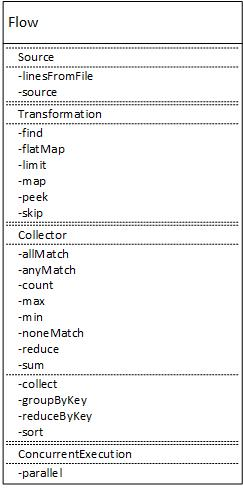
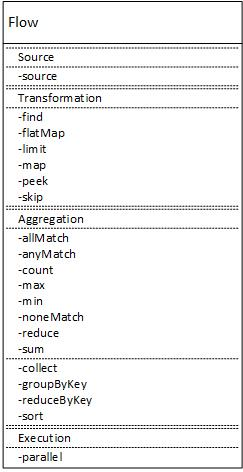
Révision

Changed region(s): [[0.0, 0.0, 1.0, 1.0], [0.0288, 0.0297, 0.1728, 0.0593]]

diff --git a/MemoireRedaction/introduction.tex b/MemoireRedaction/introduction.tex
@@ -7,7 +7,8 @@ Le traitement de flux de donn\'ees devient de plus en plus important en raison d
 Une application qui traite un flux de données peut \^etre consid\'er\'ee comme un pipeline \`a travers lequel les donn\'ees du flux sont produites, trait\'ees et consomm\'ees en continu. Le parall\'elisme dans le traitement d'un tel flux consiste \`a traiter des \'el\'ements distinct du flux de fa\c{c}on concurrente --- \emph{parall\'elisme de flux} (\emph{flow parallelism} ou \emph{stream parallelism}) --- et \`a r\'epliquer un m\^eme op\'erateur sur des sous-groupes d'\'el\'ements du flux --- \emph{parall\'elisme de donn\'ees} (\emph{data parallelism}). La transformation, le tri ou la r\'eduction par un op\'erateur binaire sont des exemples d'op\'erations pour lesquelles du parall\'elisme de donn\'ees peut \^etre exploit\'e. 
 
 
-Les applications parall\`eles sont g\'en\'eralement cod\'ees \`a l'aide de biblioth\`eques comme \TT{FastFlow}~\citep{AldinucciEtAl14} ou \TT{TBB}~\citep{Reinders07}. Bien que les mod\`eles offerts par ces outils aient pour but de simplifier le d\'eveloppement d'applications parall\`eles, ils n'offrent pas une abstraction de haut niveau et n\'ecessitent une r\'e\'ecriture de l'application sans possibilit\'e de r\'eutiliser le code s\'equentiel disponible.
+Les applications parall\`eles sont g\'en\'eralement cod\'ees \`a l'aide de biblioth\`eques comme \TT{FastFlow}~\citep{AldinucciEtAl14} ou \TT{TBB}~\citep{Reinders07}. Ces outils permettent aux utilisateurs d'implémenter des solutions robustes et portables avec une abstraction de haut niveau qui masque la complexit\'e des m\'ecanismes de concurrence, tels que la gestion des threads et les synchronisations. Bien que les mod\`eles offerts par ces outils aient pour but de simplifier le d\'eveloppement d'applications parall\`eles, ils n'offrent pas une interface standard. Notre API veut introduire un mod\`ele simple, o\`u le programmeur cr\'ee un pipeline de transformations par interm\`ede d'une interface qui expose clairement les op\'erations de transformation, et o\`u chaque transformation est relativement simple --- donc, application du
+principe <<diviser-pour-r\'egner>> mais de fa\c{c}on non r\'ecursive.
 
 \GT{Pour la derni\`ere phrase du paragraphe pr\'ec\'edent, je ne crois
 pas que PpFF permette cela non plus.  Je crois que tu dois plut\^ot
@@ -16,16 +17,20 @@ programmeur cr\'ee un pipeline de transformations, et o\`u chaque
 transformation est relativement simple --- donc, application du
 principe <<diviser-pour-r\'egner>> mais de fa\c{c}on non r\'ecursive.}
 
+\IC{J'ai reformul\'e le paragraphe. J'ai ajout\'e plus d'explications pour les outils \TT{TBB} et \TT{FastFlow}, et j'ai copi\'e la derni`ere phrase de vos remarques. Peut-\^etre j'aurais d\^u la d\'eévelopper, mais je l'ai trouv\'ee tr\`es bien formul\'ee.}
+
 R\'e\'ecrire une application est g\'en\'eralement co\^uteux en termes de temps de d\'eveloppement. Les approches visant \`a pallier ce d\'efaut sont souvent des outils de programmations parall\`eles d\'evelopp\'es pour introduire le parall\'elisme dans du code s\'equentiel existant. Des exemples sont \TT{OpenMP}~\citep{ChandraEtAl01} et \TT{OpenACC}~\citep{farber2016parallel} qui utilisent une approche bas\'ee sur l'ajout de directives --- des commentaires sp\'eciaux trait\'es par le compilateur---, et \TT{Cilk}~\citep{leiserson1998programming} qui est une extension simple du langage~\TT{C}. Malheureusement, ces outils ne sont pas bien adapt\'es au traitement de flux de donn\'ees.
 
+Des outils qui supportent le traitement de flux de donn\'ees sont disponibles dans d'autres langages de programmation que \TT{C}/\TT{C++}. Les plus connus sont \TT{Spark}~\citep{frampton2015mastering} (Java, Scala et autres langages), les \TT{Stream}s de \TT{Java 8}~\citep{warburton2014java} et \TT{Flink}~\citep{flinkReferenceEnLigne} (Java et Scala). Notre \TT{API} est tr\`es semblable \`a celle des Streams de Java 8, mais en C++, et parfois / souvent plus simple \`a sp\'ecifier gr\^ace aux templates.
 
-Des outils qui supportent le traitement de flux de donn\'ees sont disponibles dans d'autres langages de programmation que \TT{C}/\TT{C++}. Les plus connus sont \TT{Spark}~\citep{frampton2015mastering} (Java, Scala et autres langages), les \TT{Stream}s de \TT{Java 8}~\citep{warburton2014java} et \TT{Flink}~\citep{flinkReferenceEnLigne} (Java et Scala). Un avantage principal de notre \TT{API} par rapport aux outils mentionn\'es est que le code (\'ecrit \`a l'aide de templates \TT{C++}) est compil\'e directement en code machine optimis\'ee m\^eme avant d'\^etre ex\'ecut\'e. 
 
 \GT{Ci-haut, derni\`ere phrase: pas certain que ce soit le bon
 avantage \`a mentionner.  Je crois qu'il faut \^etre clair \`a ce
 point que l'API est tr\`es semblable (!) \`a celle des Streams de Java
 8, mais en C++, et parfois/souvent plus simple \`a sp\'ecifier gr\^ace
 aux templates.}
+
+\IC{Encore une fois j'ai copi\'e votre suggestion. Tr\`es bon point.}
 
 \section*{Objectifs}
 
@@ -35,7 +40,11 @@ plus, tu utilises le terme <<mod\`ele algorithmique parall\`ele>> ou
 cela r\'ef\`ere. \'A quel terme anglais ce terme correspond-il? Quelle
 est la r\'ef\'erence?}
 
-Dans le contexte du langage de programmation \TT{C++}, il existe plusieurs biblioth\`eques qui offrent des mod\`eles algorithmiques parall\`eles pour le traitement de donn\'ees. Cependant, tous les mod\`eles entrent dans la cat\'egorie des mod\`eles parall\`eles de donn\'ees, comme la transformation et la r\'eduction. Ce m\'emoire a comme objectif d'enrichir cette collection avec de nouveaux mod\`eles parall\`eles avec une interface simple \`a utiliser. Ceci, associ\'e \`a de nouvelles fonctionnalit\'es telles que les expressions lambda~\citep{josuttis2012c++}, aide un programmeur \`a \'ecrire des op\'erations complexes pour un flux de donn\'ees. Cette nouvelle \TT{API} en \TT{C++}, appel\'ee \TT{PpFF},  est mise en \oe{}uvre avec la biblioth\`eque \TT{FastFlow}.
+\IC{Le terme anglais pour <<mod\`ele algorithmique parall\`ele>> correspond \`a <<parallel algorithms>>. Je me suis inspir\'e de l'article suivant : Adapting parallel algorithms to the W-Stream model, with applications to graph problems. (https://www.sciencedirect.com/science/article/pii/S0304397510004652) }
+
+\IC{J'ai reformul\'e le paragraphe.}
+
+Dans le contexte du langage de programmation \TT{C++}, il existe plusieurs biblioth\`eques qui offrent des algorithmes de traitement de flux de donn\'ees. Cependant, la plupart des algorithmes se réduisent \`a des op\'erations de transformation et et de r\'eduction. Ce m\'emoire a comme objectif d'enrichir cette collection avec de nouvelles op\'erations dans une interface simple \`a utiliser. Ceci, associ\'e \`a de nouvelles fonctionnalit\'es telles que les expressions lambda~\citep{josuttis2012c++}, aide un programmeur \`a \'ecrire des op\'erations complexes pour un flux de donn\'ees. Cette nouvelle \TT{API} en \TT{C++}, appel\'ee \TT{PpFF},  est mise en \oe{}uvre avec la biblioth\`eque \TT{FastFlow}.
 
 Les performances de \TT{PpFf} sont \'evalu\'ees en les comparant \`a celles des \TT{Stream}s de \TT{Java 8}. Comme nous le verrons, les r\'esultats indiquent que \TT{PpFf} peut en effet traiter de donn\'ees \`a haut d\'ebit. En plus de mesurer les performances de notre API, nous illustrerons \'egalement son expressivit\'e en impl\'ementant certains cas d'utilisation typiques rencontr\'es dans les applications de traitement de flux de donn\'ees.
 
@@ -49,6 +58,8 @@ comme suit.
 \GT{Il ne faut pas mettre de num\'eros ou noms explicites, sinon ils
 ne seront plus corrects si tu les changes dans le corps du texte. De
 plus, la conclusion n'est pas un chapitre num\'erot\'e.}
+
+\IC{Bonne remarque!!!}
 
 Le chapitre~\ref{outils_connus.chap} \nameref{outils_connus.chap} pr\'esente les outils existants portant sur le traitement des flux de donn\'ees.  Tout d'abord, il introduit les architectures utilis\'ees par divers outils, puis il pr\'esente les mod\`eles de programmations permettant d'exprimer les traitements de donn\'ees.
 

diff --git a/MemoireRedaction/outils_connus.tex b/MemoireRedaction/outils_connus.tex
@@ -47,6 +47,10 @@ alors que d'autres les traitent en ligne (\emph{online}), de fa\c{c}on
 incr\'ementale, au fur et \`a mesure o\`u ces donn\'ees deviennent
 disponibles.}
 
+\IC{J'ai ajout\'e le paragraphe ci-dessous.}
+
+Le traitement de flux de donn\'ees repr\'esente la conversion des donn\'ees en entr\'ee du flux sous une forme utilisable et souhait\'ee. Cette conversion s'effectue \`a l'aide d'une s\'equence d'op\'erations pr\'ed\'efinie. Les op\'erations courantes de traitement de flux des donn\'ees comprennent le tri, le calcul, le filtrage et la transformation des donn\'ees. Les traitements de flux de donn\'ees peuvent \^etre group\'es dans deux grandes cat\'egories : le traitement de donn\'ees par lot (batch en anglais) et le traitement de donn\'ees en ligne de fa\c con incr\'ementale, au fur et \`a mesure o\`u ces donn\'ees deviennent disponibles. Alors que le mod\`ele de traitement par lots n\'ecessite que les donn\'ees soient collect\'ees au fil du temps, le traitement en continu n\'ecessite que les donn\'ees soient introduites dans le flux en temps r\'eel.
+
 
 
 Il existe de nombreux syst\`emes de traitement de flux de donn\'ees. La conception, le mod\`ele et l'architecture de ces syst\`emes diff\`erent, de sorte qu'ils poss\`edent des fonctionnalit\'es et des performances diff\'erentes. Ce chapitre pr\'esente un aper\c{c}u de trois syst\`emes de traitement de flux de donn\'ees~: \TT{Apache Spark} (Sect.~\ref{spark.sect}), les \TT{Stream}s de \TT{Java}~8 (Sect.~\ref{java8.sect}) et \TT{FastFlow} (Sect.~\ref{fastflow.sect}).  Ce sont trois parmi les nombreux syst\`emes actuellement disponibles, que nous avons choisis de pr\'esenter parce qu'ils ont servi d'inspiration et de base au syst\`eme que nous avons d\'evelopp\'e, \ppff, que nous pr\'esenterons aux chapitres~\ref{description.chap} et~\ref{implementation.chap}.
@@ -86,7 +90,10 @@ Les \TT{RDD}s sont conçus pour \^etre partitionn\'es, donc r\'epartis sur diff\
 ce qui est \'ecrit plus haut, non? C'est-\`a-dire qu'il redit la
 m\^eme chose...}
 
-Les \TT{RDD}s peuvent \^etre cr\'e\'es via d'autres \TT{RDD}s existants. Ce m\'ecanisme permet la reconstruction des partitions perdues, car chaque \TT{RDD} dispose d'informations suffisantes sur la reconstruction \`a partir d'autres \TT{RDD}s. Lorsqu'il y a une demande de mise en cache d'un \TT{RDD}, par d\'efaut \TT{Spark} stocke ces partitions en m\'emoire. Cependant, des partitions peuvent aussi \^etre stock\'ees sur disques, lorsque la m\'emoire est insuffisante.
+\IC{J'ai effac\'e le paragraphe redondant}
+
+
+%Les \TT{RDD}s peuvent \^etre cr\'e\'es via d'autres \TT{RDD}s existants. Ce m\'ecanisme permet la reconstruction des partitions perdues, car chaque \TT{RDD} dispose d'informations suffisantes sur la reconstruction \`a partir d'autres \TT{RDD}s. Lorsqu'il y a une demande de mise en cache d'un \TT{RDD}, par d\'efaut \TT{Spark} stocke ces partitions en m\'emoire. Cependant, des partitions peuvent aussi \^etre stock\'ees sur disques, lorsque la m\'emoire est insuffisante.
 
 
 \subsection{\emph{Discretized Streams}}
@@ -94,10 +101,12 @@ Les \TT{RDD}s peuvent \^etre cr\'e\'es via d'autres \TT{RDD}s existants. Ce m\'e
 \TT{Spark} traite un flux incr\'emental de donn\'ee par l'implémentation du mod\`ele \emph{Discretized Streams} (\TT{D-stream}s).   
 %
 \GT{Je ne comprends pas la phrase qui suit.}
+
+\IC{J'ai reformul\'e la phrase.}
 %
-Les \TT{D-stream}s repr\'esentent les flux de donn\'ees re\c{c}us en entr\'ee pour un traitement. 
+Le mod\`ele \TT{D-stream} est une abstraction de \TT{Spark}. Il s'agit essentiellement d'un flux de RDD dont les \'el\'ements sont les donn\'ees re\c cues par flux en entr\'ee pour le traitement par lots.
 %
-TT{Spark} d\'ecompose un flux de donn\'ees en une s\'erie de lots, en fonction de courts intervalles de temps, lots appel\'es \emph{micro-batches}. Chaque \emph{micro-batch} stocke ses donn\'ees dans un \TT{RDD}. Ensuite, la \emph{micro-batch} est trait\'ee et ses r\'esultats sont stock\'es dans des \TT{RDD}s interm\'ediaires.
+\TT{Spark} d\'ecompose un flux de donn\'ees en une s\'erie de lots, en fonction de courts intervalles de temps, lots appel\'es \emph{micro-batches}. Chaque \emph{micro-batch} stocke ses donn\'ees dans un \TT{RDD}. Ensuite, la \emph{micro-batch} est trait\'ee et ses r\'esultats sont stock\'es dans des \TT{RDD}s interm\'ediaires.
 
 
 \subsection{Exemple~: \TT{wordCount}}
@@ -348,7 +357,7 @@ public static void main(String[] args) throws IOException {
 \end{lstlisting}
 
 
-\GT{Ci-bas: j'ai chang\'e des d\'etails des explications car ce n'est
+\gt{Ci-bas: j'ai chang\'e des d\'etails des explications car ce n'est
 pas une application compl\`ete et \c{c}a traite pas un fichier texte
 mais juste une chaine.}
 
@@ -356,13 +365,15 @@ mais juste une chaine.}
 Afin d'illustrer le mod\`ele de programmation avec les \TT{Stream}s de \TT{Java~8}, le listing~\ref{wordCountJava} montre le code source d'un segment de code \TT{Java} de d\'ecompte de mots. Plus pr\'ecis\'ement, ce segment de code compte le nombre d'occurrences des mots dans un chaine et est compos\'ee de plusieurs op\'erations \emph{cha\^in\'ees} les unes \`a la suite des autres :
 
 \begin{itemize}
-	\item \TT{Files.lines}, qui renvoie un flux s\'equentiel de lignes \`a partir du fichier. Le fichier est rep\'er\'e par le param\`etre \TT{inputFile} fourni en argument.
+	\item \TT{lines}, qui renvoie un flux s\'equentiel de lignes \`a partir du fichier. Le fichier est rep\'er\'e par le param\`etre \TT{inputFile} fourni en argument.
 
 \GT{Tu utilises \TT{lines} qui est un \TT{ArrayList}, donc tu
 n'utilises par \TT{File.lines}! De plus, tu as aussi l'appel \`a
 \TT{stream}, donc tu ne parles pas.  Mais est-il vraiment
 n\'ecessaire, si c'est ensuite suivi de \TT{parallel}? \`A
 v\'erifier!}
+
+\IC{J'ai remplac\'e <<Files.lines>> par <<lignes>>}
 
 	\item \TT{parallel}, qui marque le flux en tant que flux parall\`ele. Cette op\'eration permet ainsi de partitionner et d'ex\'ecuter le \TT{pipeline} en parall\`ele.
 

diff --git a/MemoireRedaction/description.tex b/MemoireRedaction/description.tex
@@ -10,6 +10,8 @@ Cet aspect me semble un d\'etail li\'e \`a la mise en oeuvre. Dans la
 description de l'API, il suffit de parler des m\'ethodes
 elles-m\^emes!}
 
+\IC{Il semble correct.}
+
 
 \gt{Partout ci-bas dans les extraits de code, j'ai remplac\'e
 <<\TT{Flux}>> par <<\TT{Flow}>>!  Et j'ai remplac\'e <<\TT{Flow()}>>
@@ -33,6 +35,8 @@ soit coll\'e sur \TT{Flow}. \`A v\'erifier!}
 \GT{Dans la figure: linesFromFile apparait encore. Est-elle encore
 pr\'esente dans l'API? Car elle n'apparait plus dans le tableau 2.1!}
 
+\IC{Elle n'est plus pr\'esente dans l'API. J'ai oubli\'e de modifier la figure.}
+
 \GT{Apr\`es relecture, je trouve que les noms des cat\'egories ne sont
 pas tout \`a fait justes et uniformes --- parfois un substantif passif
 (transformation), parfois actif (collector). 
@@ -44,6 +48,8 @@ parall\'elisme, pas juste de la concurrence!
 Apr\`es r\'eflexion, je propose les cat\'egories suivantes~: Source,
 Transformation, Aggregation, Execution. J'ai fait diverses
 modifications en ce sens... mais il faut aussi modifier la figure!}
+
+\IC{J'ai modifi\'e la figure.}
 
 
 
@@ -922,4 +928,8 @@ La m\'ethode \TT{reduceByKey} conserve les \'el\'ements dans un conteneur de typ
 \GT{Il faut aussi dire quelques mots sur cette cat\'egorie, m\^eme si
 elle ne contient qu'une seule m\'ethode --- par souci de
 compl\'etude!}
+
+\IC{J'ai ajout\'e quelques mots.}
+
+La m\'ethode \TT{parallel} d\'efinie dans cette cat\'egorie d\'etermine le comportement d'ex\'ecution du flux. Lorsqu'elle est ajout\'ee dans le flux, toutes les op\'erations suivant cette m\'ethode seront ex\'ecut\'ees en parall\`ele. La signature pour la m\'ethode \TT{parallel} est donn\'ee dans le tableau~\ref{methodes_api.tab}. La valeur de type enti\`ere fournie en argument permet de r\'epartir les \'el\'ements du flux entre divers \emph{threads}. Par exemple, dans le listing~\ref{wordcount.c++}, la méthode \TT{parallel(4)} permet de r\'epartir les \'el\'ements du flux entre quatre \emph{threads} et donc d'ex\'ecuter les \'etapes qui suivent en parall\`ele.
 
